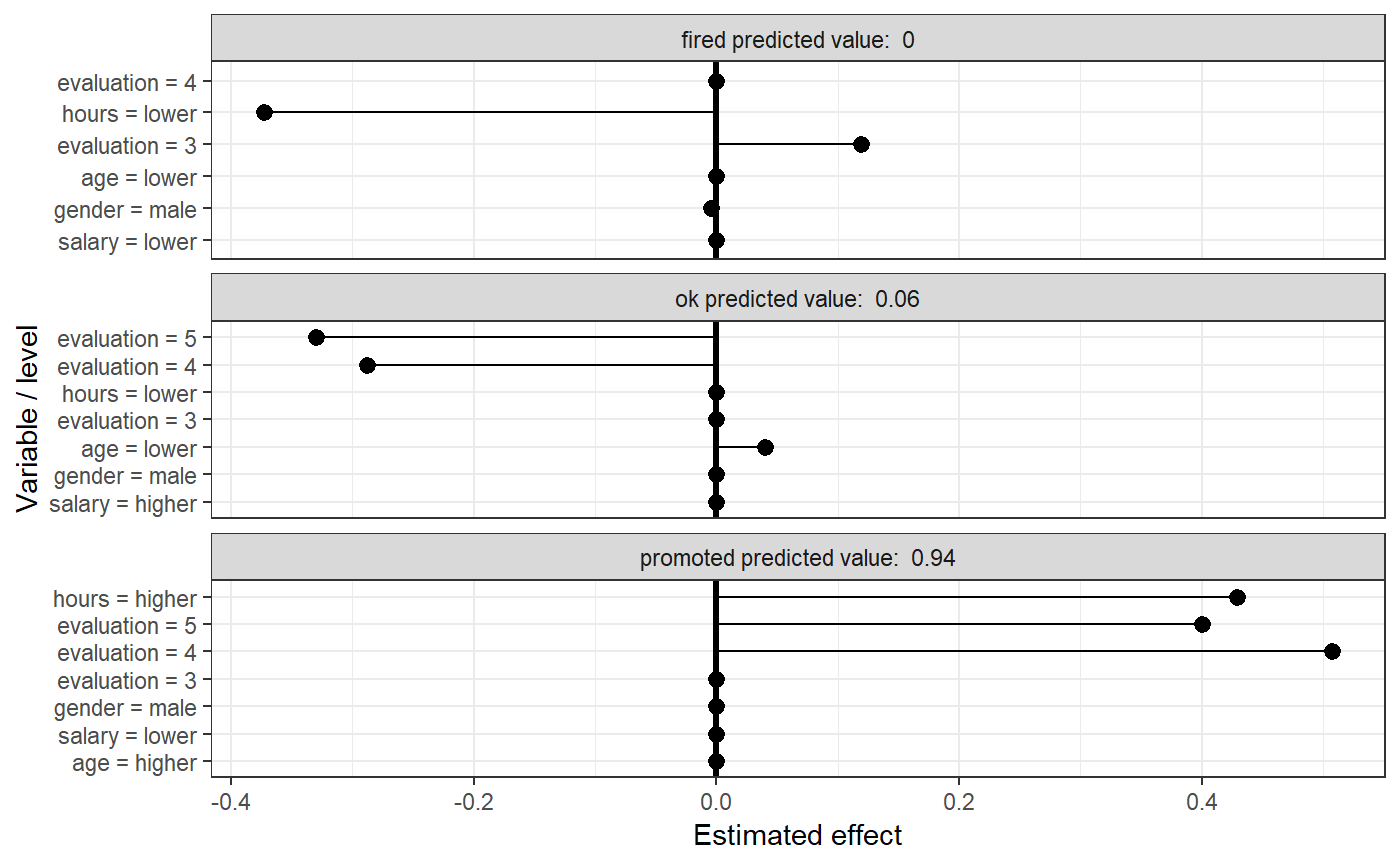
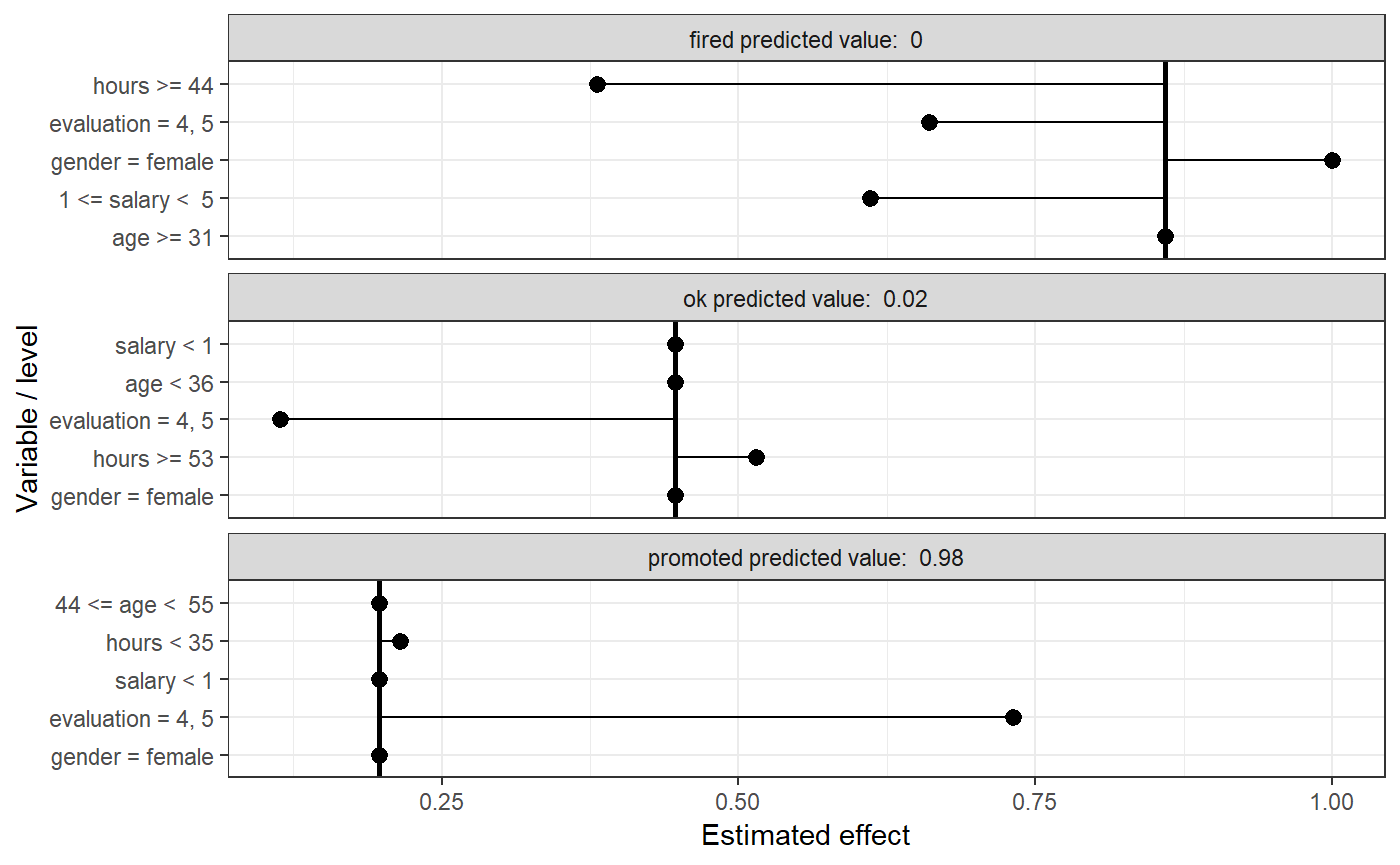
updates docs

diff --git a/docs/reference/individual_surrogate_model.html b/docs/reference/individual_surrogate_model.html
@@ -6,7 +6,7 @@
 <meta http-equiv="X-UA-Compatible" content="IE=edge">
 <meta name="viewport" content="width=device-width, initial-scale=1.0">
 
-<title>Local surrogate model — individual_surrogate_model • localModel</title>
+<title>LIME-like explanations based on Ceteris Paribus curves — individual_surrogate_model • localModel</title>
 
 <!-- jquery -->
 <script src="https://code.jquery.com/jquery-3.1.0.min.js" integrity="sha384-nrOSfDHtoPMzJHjVTdCopGqIqeYETSXhZDFyniQ8ZHcVy08QesyHcnOUpMpqnmWq" crossorigin="anonymous"></script>
@@ -48,7 +48,7 @@
 	  <a class = "navbar-mi2logo" href="http://mi2.mini.pw.edu.pl/">
         <img src = "https://github.com/mi2-warsaw/MI2template/blob/master/inst/pkgdown/assets/MI2logo.jpg?raw=true" alt = "MI2" height = 46 title = "MI2">
 	  </a>
-      <a class="navbar-brand navbar-mi2" href="../index.html">Local surrogate model</a>
+      <a class="navbar-brand navbar-mi2" href="../index.html">LIME-like explanations based on Ceteris Paribus curves</a>
     </div>
     <div id="navbar" class="navbar-collapse collapse">
       <ul class="navbar-mi2 nav navbar-nav">
@@ -94,65 +94,44 @@
       <div class="row">
   <div class="col-md-9 contents">
     <div class="page-header">
-    <h1>Local surrogate model</h1>
+    <h1>LIME-like explanations based on Ceteris Paribus curves</h1>
     </div>
 
     
-    <p>Local surrogate model</p>
+    <p>LIME-like explanations based on Ceteris Paribus curves</p>
     
 
-    <pre class="usage"><span class='fu'>individual_surrogate_model</span>(<span class='no'>x</span>, <span class='no'>new_observation</span>, <span class='no'>size</span>, <span class='kw'>levels</span> <span class='kw'>=</span> <span class='st'>"two"</span>,
-  <span class='kw'>seed</span> <span class='kw'>=</span> <span class='kw'>NULL</span>, <span class='kw'>kernel</span> <span class='kw'>=</span> <span class='no'>gaussian_kernel</span>, <span class='kw'>grid_points</span> <span class='kw'>=</span> <span class='fu'>nrow</span>(<span class='no'>x</span>$<span class='no'>data</span>),
-  <span class='kw'>smoothness</span> <span class='kw'>=</span> <span class='kw'>NULL</span>, <span class='kw'>penalty</span> <span class='kw'>=</span> <span class='kw'>NULL</span>)</pre>
+    <pre class="usage"><span class='fu'>individual_surrogate_model</span>(<span class='no'>x</span>, <span class='no'>new_observation</span>, <span class='no'>size</span>, <span class='kw'>seed</span> <span class='kw'>=</span> <span class='kw'>NULL</span>,
+  <span class='kw'>sampling</span> <span class='kw'>=</span> <span class='st'>"uniform"</span>)</pre>
     
     <h2 class="hasAnchor" id="arguments"><a class="anchor" href="#arguments"></a> Arguments</h2>
     <table class="ref-arguments">
     <colgroup><col class="name" /><col class="desc" /></colgroup>
     <tr>
       <th>x</th>
-      <td><p>an explainer created with function `DALEX2::explain()`</p></td>
+      <td><p>an explainer created with function DALEX2::explain().</p></td>
     </tr>
     <tr>
       <th>new_observation</th>
-      <td><p>an observation/observations to be explained.
-Columns in should correspond to columns in the data element of explainer.</p></td>
+      <td><p>an observation to be explained. Columns in should correspond to columns in the data argument to x.</p></td>
     </tr>
     <tr>
       <th>size</th>
-      <td><p>Number of instance to simulate.</p></td>
-    </tr>
-    <tr>
-      <th>levels</th>
-      <td><p>Should two levels of each variable be created ("baseline", "lower"
-or "higher") or three levels ("baseline", "lower" and "higher").</p></td>
+      <td><p>number of similar observation to be sampled.</p></td>
     </tr>
     <tr>
       <th>seed</th>
-      <td><p>Argument to set.seed, if not specified, results will not be reproducible.</p></td>
+      <td><p>If not NULL, seed will be set to this value for reproducibility.</p></td>
     </tr>
     <tr>
-      <th>kernel</th>
-      <td><p>kernel function which will be used to weight distances between observations.</p></td>
-    </tr>
-    <tr>
-      <th>grid_points</th>
-      <td><p>Number of points, at which ceteris paribus curves will be calculated.</p></td>
-    </tr>
-    <tr>
-      <th>smoothness</th>
-      <td><p>Span argument to loess function. If NULL, smoothing won't be applied
-to results of ceteris_paribus function.</p></td>
-    </tr>
-    <tr>
-      <th>Sequence</th>
-      <td><p>of lambdas (penalties) to glmnet.
-If NULL, penalty will be chosen via cross validation.</p></td>
+      <th>sampling</th>
+      <td><p>Parameter that controls sampling while creating new observations.</p></td>
     </tr>
     </table>
     
     <h2 class="hasAnchor" id="value"><a class="anchor" href="#value"></a>Value</h2>
 
-    <p>glmnet model object</p>
+    <p>data.frame of class local_surrogate_explainer</p>
     
 
   </div>

diff --git a/docs/articles/regression_example.html b/docs/articles/regression_example.html
@@ -90,18 +90,6 @@
 <span class="kw">data</span>(<span class="st">'apartments'</span>)
 <span class="kw">data</span>(<span class="st">'apartmentsTest'</span>)
 
-apartments &lt;-<span class="st"> </span>dplyr<span class="op">::</span><span class="kw"><a href="http://dplyr.tidyverse.org/reference/summarise_all.html">mutate_all</a></span>(apartments, 
-                                <span class="cf">function</span>(x) {
-                                  <span class="cf">if</span>(dplyr<span class="op">::</span><span class="kw"><a href="http://dplyr.tidyverse.org/reference/n_distinct.html">n_distinct</a></span>(x) <span class="op">&lt;</span><span class="st"> </span><span class="dv">10</span>) <span class="kw">as.factor</span>(<span class="kw">as.character</span>(x))
-                                  <span class="cf">else</span> x
-                                })
-apartmentsTest &lt;-<span class="st"> </span>dplyr<span class="op">::</span><span class="kw"><a href="http://dplyr.tidyverse.org/reference/summarise_all.html">mutate_all</a></span>(apartmentsTest, 
-                                <span class="cf">function</span>(x) {
-                                  <span class="cf">if</span>(dplyr<span class="op">::</span><span class="kw"><a href="http://dplyr.tidyverse.org/reference/n_distinct.html">n_distinct</a></span>(x) <span class="op">&lt;</span><span class="st"> </span><span class="dv">10</span>) <span class="kw">as.factor</span>(<span class="kw">as.character</span>(x))
-                                  <span class="cf">else</span> x
-                                })
-
-
 mrf &lt;-<span class="st"> </span><span class="kw">randomForest</span>(m2.price <span class="op">~</span>., <span class="dt">data =</span> apartments, <span class="dt">ntree =</span> <span class="dv">50</span>)
 
 explainer &lt;-<span class="st"> </span>DALEX<span class="op">::</span><span class="kw"><a href="http://www.rdocumentation.org/packages/DALEX/topics/explain">explain</a></span>(<span class="dt">model =</span> mrf,
@@ -110,8 +98,7 @@ explainer &lt;-<span class="st"> </span>DALEX<span class="op">::</span><span cla
 new_observation &lt;-<span class="st"> </span>apartmentsTest[<span class="dv">5</span>, <span class="op">-</span><span class="dv">1</span>]
 
 model_lok &lt;-<span class="st"> </span><span class="kw"><a href="../reference/individual_surrogate_model.html">individual_surrogate_model</a></span>(explainer, new_observation,
-                                        <span class="dt">size =</span> <span class="dv">500</span>, <span class="dt">grid_points =</span> <span class="dv">100</span>,
-                                        <span class="dt">smoothness =</span> <span class="ot">NULL</span>)
+                                        <span class="dt">size =</span> <span class="dv">500</span>)
 <span class="kw">plot</span>(model_lok)</code></pre></div>
 <p><img src="regression_example_files/figure-html/pkgs-1.png" width="700"></p>
   </div>

diff --git a/docs/reference/index.html b/docs/reference/index.html
@@ -96,7 +96,7 @@
     <div class="page-header">
       <h1>
         Reference
-        <small>version&nbsp;0.1.2</small>
+        <small>version&nbsp;0.2.0</small>
       </h1>
     </div>
 
@@ -118,33 +118,15 @@
         <tr>
           <!--  -->
           <td>
-            <p><code><a href="check_for_na.html">check_for_na()</a></code> </p>
-          </td>
-          <td><p>Alert user if NAs are present</p></td>
-        </tr><tr>
-          <!--  -->
-          <td>
             <p><code><a href="euclidean_kernel.html">euclidean_kernel()</a></code> </p>
           </td>
           <td><p>LIME kernel equal to the inverse of euclidean distance.</p></td>
         </tr><tr>
           <!--  -->
           <td>
-            <p><code><a href="fit_explanation.html">fit_explanation()</a></code> </p>
-          </td>
-          <td><p>Fit white box model to the simulated data.</p></td>
-        </tr><tr>
-          <!--  -->
-          <td>
             <p><code><a href="gaussian_kernel.html">gaussian_kernel()</a></code> </p>
           </td>
           <td><p>LIME kernel from the original article with sigma = 1.</p></td>
-        </tr><tr>
-          <!--  -->
-          <td>
-            <p><code><a href="generate_neighbourhood.html">generate_neighbourhood()</a></code> </p>
-          </td>
-          <td><p>LIME: sampling for local exploration by changing one value per observation.</p></td>
         </tr><tr>
           <!--  -->
           <td>
@@ -157,13 +139,7 @@ observation of interest.</p></td>
           <td>
             <p><code><a href="individual_surrogate_model.html">individual_surrogate_model()</a></code> </p>
           </td>
-          <td><p>Local surrogate model</p></td>
-        </tr><tr>
-          <!--  -->
-          <td>
-            <p><code><a href="set_constant_variables.html">set_constant_variables()</a></code> </p>
-          </td>
-          <td><p>Set date values to one value</p></td>
+          <td><p>LIME-like explanations based on Ceteris Paribus curves</p></td>
         </tr>
       </tbody>
       </table>

diff --git a/docs/articles/classification_example.html b/docs/articles/classification_example.html
@@ -105,8 +105,7 @@ explainer &lt;-<span class="st"> </span><span class="kw">explain</span>(mrf,
 new_observation &lt;-<span class="st"> </span>HR[<span class="dv">10</span>, <span class="op">-</span><span class="dv">6</span>]
 size &lt;-<span class="st"> </span><span class="dv">500</span>
 
-model_lok &lt;-<span class="st"> </span><span class="kw"><a href="../reference/individual_surrogate_model.html">individual_surrogate_model</a></span>(explainer, new_observation, size, 
-                                        <span class="dt">grid_points =</span> <span class="dv">100</span>)
+model_lok &lt;-<span class="st"> </span><span class="kw"><a href="../reference/individual_surrogate_model.html">individual_surrogate_model</a></span>(explainer, new_observation, size)
 <span class="co"># Ew. usunąć zbędne zależności dla stabilności</span>
 <span class="co"># cutTree zamiast optimalPartition</span>
 <span class="co"># lime pokazuje tylko jeden przedział dla danej zmiennej</span>

diff --git a/docs/news/index.html b/docs/news/index.html
@@ -99,6 +99,15 @@
     </div>
 
     <div class="contents">
+    <div id="localmodel-0-2-0" class="section level1">
+<h1 class="page-header">
+<a href="#localmodel-0-2-0" class="anchor"></a>localMOdel 0.2.0</h1>
+<ul>
+<li>Minor changes: interpretable features are created using decision trees-based discretization.</li>
+<li>Now-unnecessary dependencies dropped.</li>
+<li>Plots are now drawn around intercept.</li>
+</ul>
+</div>
     <div id="localmodel-0-1-2" class="section level1">
 <h1 class="page-header">
 <a href="#localmodel-0-1-2" class="anchor"></a>localModel 0.1.2</h1>
@@ -138,6 +147,7 @@
     <div id="tocnav">
       <h2>Contents</h2>
       <ul class="nav nav-pills nav-stacked contents-mi2">
+        <li><a href="#localmodel-0-2-0">0.2.0</a></li>
         <li><a href="#localmodel-0-1-2">0.1.2</a></li>
         <li><a href="#localmodel-0-1-1">0.1.1</a></li>
         <li><a href="#localmodel-0-1">0.1</a></li>

diff --git a/NEWS.md b/NEWS.md
@@ -1,3 +1,9 @@
+# localMOdel 0.2.0
+
+* Minor changes: interpretable features are created using decision trees-based discretization. 
+* Now-unnecessary dependencies dropped.
+* Plots are now drawn around intercept.
+
 # localModel 0.1.2
 
 * Fixes bug in observation enconding.
